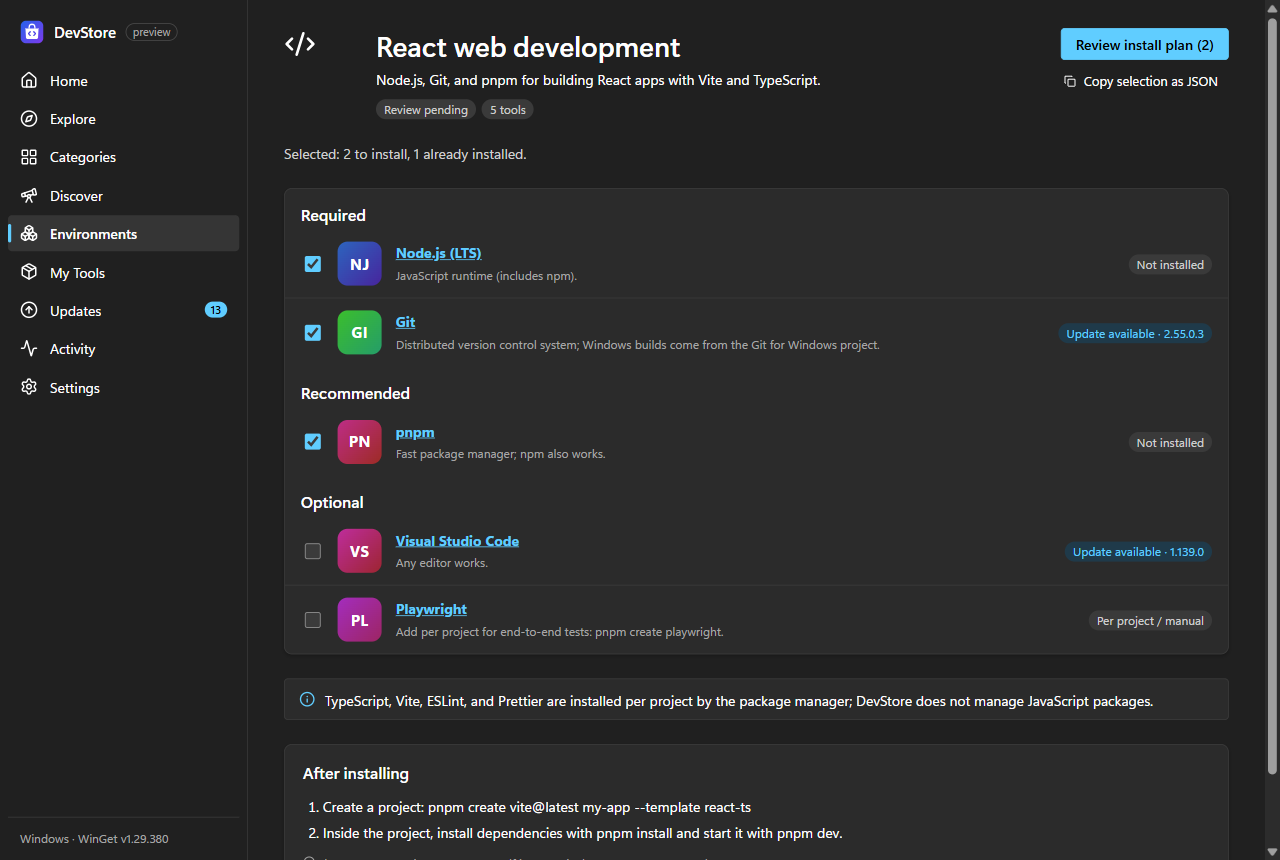
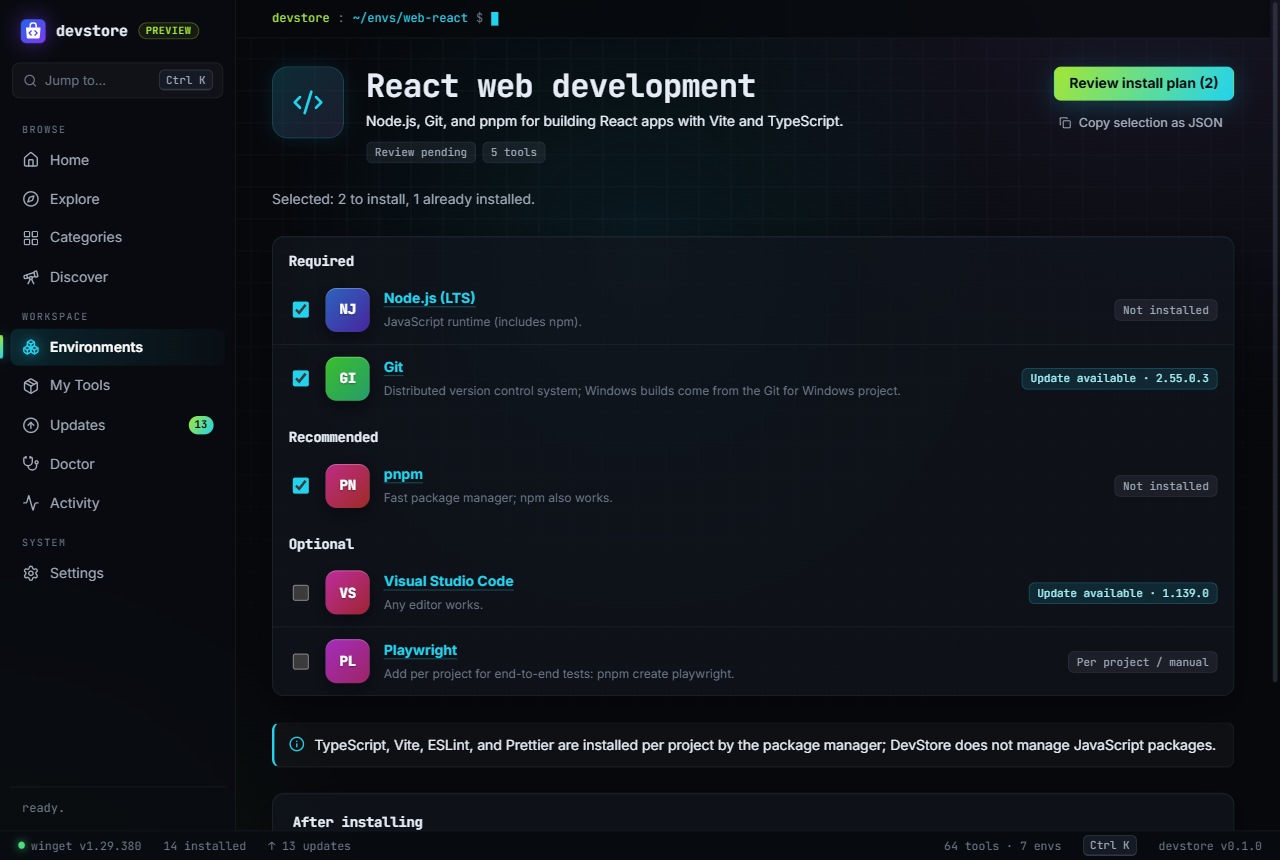
Update website

diff --git a/index.html b/index.html
@@ -73,8 +73,8 @@
           </div>
           <figure class="hero-shot">
             <img
-              src="assets/install-plan.png"
-              alt="DevStore showing an install plan with version, publisher, installer host, SHA-256 hash, and what you agree to"
+              src="assets/home.png"
+              alt="DevStore home screen with a live terminal, catalog stats, and categories"
               width="1280"
               height="860"
             />
@@ -134,6 +134,28 @@
 
       <section class="section alt">
         <div class="wrap shots">
+          <figure>
+            <img
+              src="assets/install-plan.png"
+              alt="An install plan showing version, publisher, installer host, SHA-256 hash, and what you agree to"
+              loading="lazy"
+              width="1280"
+              height="860"
+            />
+            <figcaption>
+              A clear plan before every install — source, version, host, and hash.
+            </figcaption>
+          </figure>
+          <figure>
+            <img
+              src="assets/command-palette.png"
+              alt="The DevStore command palette searching for Python tools"
+              loading="lazy"
+              width="1280"
+              height="860"
+            />
+            <figcaption>Press Ctrl+K to jump to any tool or page.</figcaption>
+          </figure>
           <figure>
             <img
               src="assets/explore-alternatives.png"

diff --git a/style.css b/style.css
@@ -1,12 +1,12 @@
 :root {
-  --bg: #f7f7f9;
+  --bg: #f6f8fa;
   --surface: #ffffff;
-  --alt: #eef1f8;
-  --text: #16181d;
-  --muted: #555b66;
-  --border: #e3e5ea;
-  --accent: #3b5bdb;
-  --accent-2: #7c3aed;
+  --alt: #eef4f6;
+  --text: #0f1419;
+  --muted: #4f5b67;
+  --border: #dde3e8;
+  --accent: #0e9fb8;
+  --accent-2: #65a30d;
   --on-accent: #ffffff;
   --radius: 14px;
   color-scheme: light dark;
@@ -21,15 +21,15 @@
 
 @media (prefers-color-scheme: dark) {
   :root {
-    --bg: #111317;
-    --surface: #1a1d23;
-    --alt: #161a22;
-    --text: #f2f3f5;
-    --muted: #a9afbb;
-    --border: #2b2f38;
-    --accent: #7b93ff;
-    --accent-2: #a78bfa;
-    --on-accent: #0d0f14;
+    --bg: #06080c;
+    --surface: #10141c;
+    --alt: #0a0d13;
+    --text: #e7edf5;
+    --muted: #a0aab8;
+    --border: #1f2632;
+    --accent: #22d3ee;
+    --accent-2: #a3e635;
+    --on-accent: #041014;
   }
 }
 
